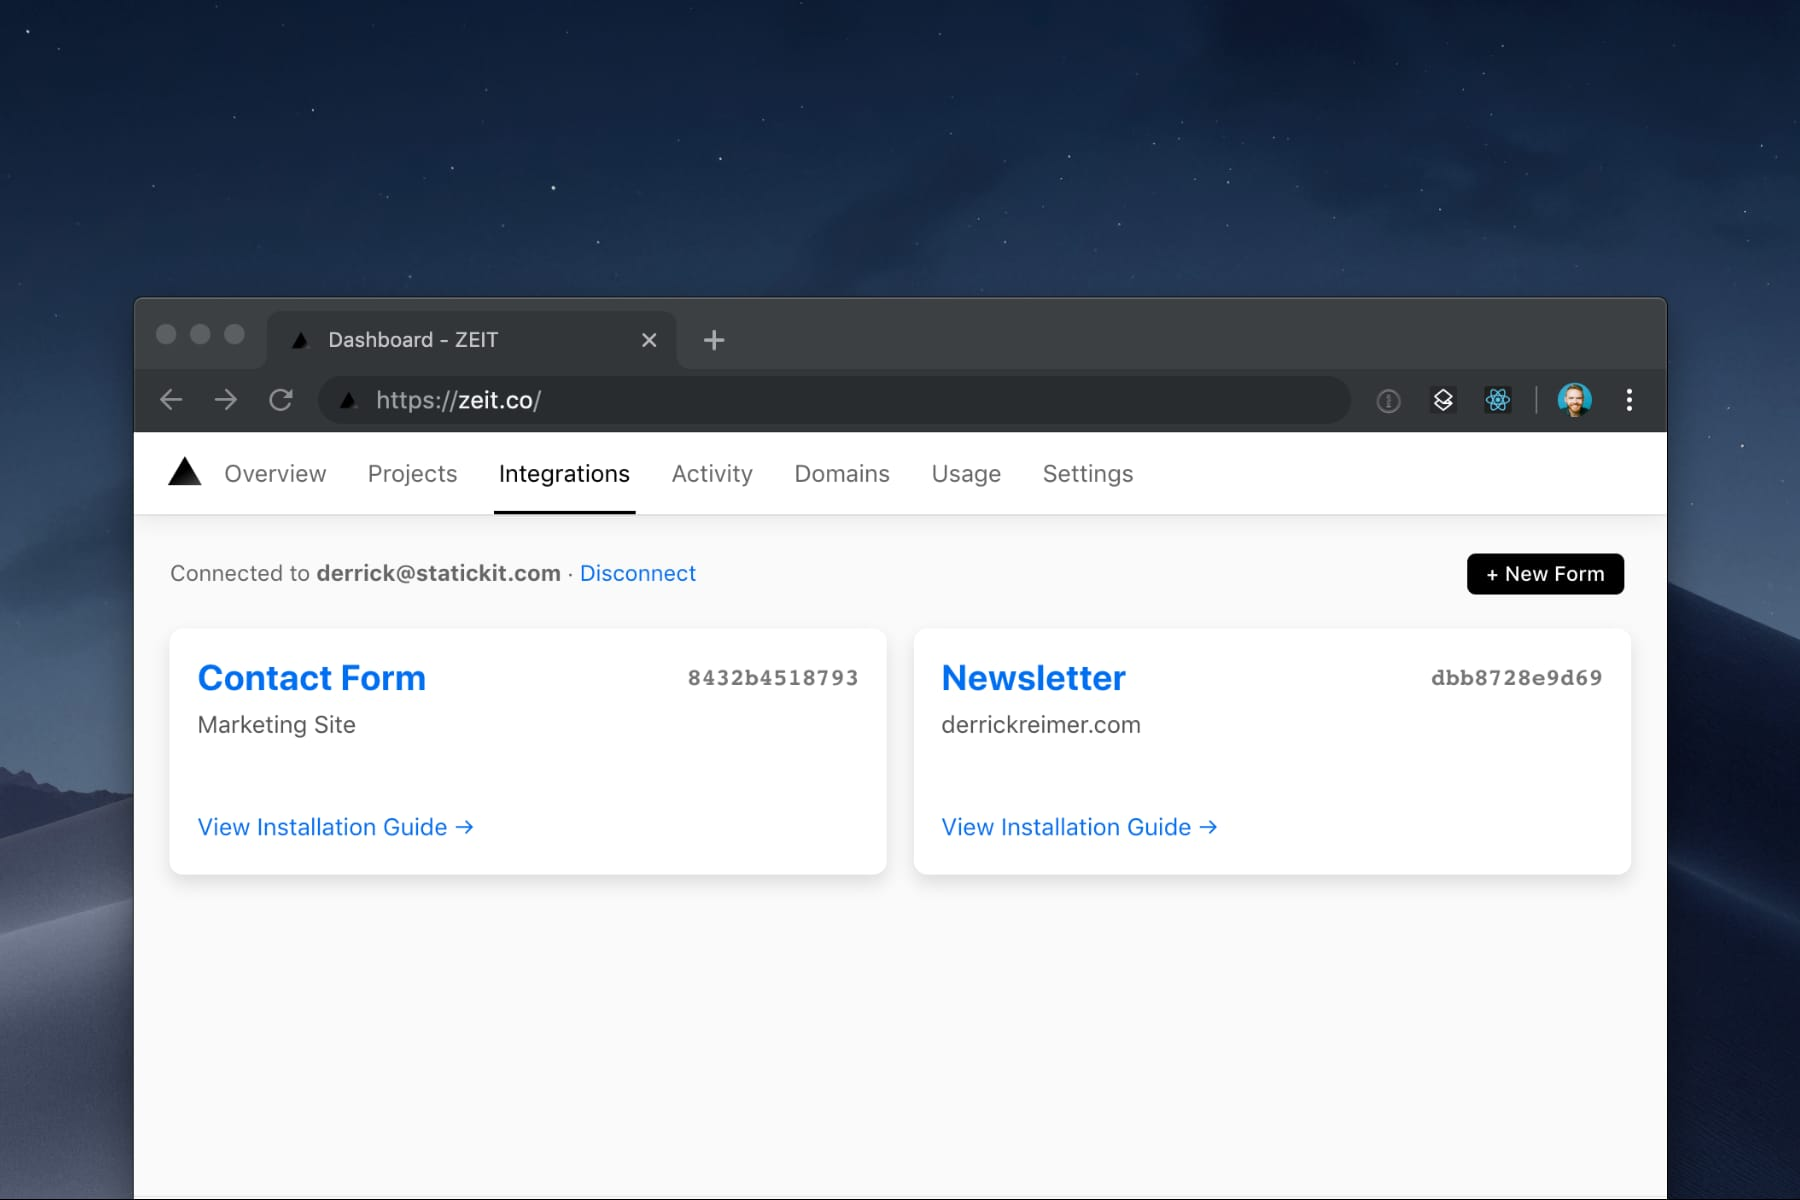
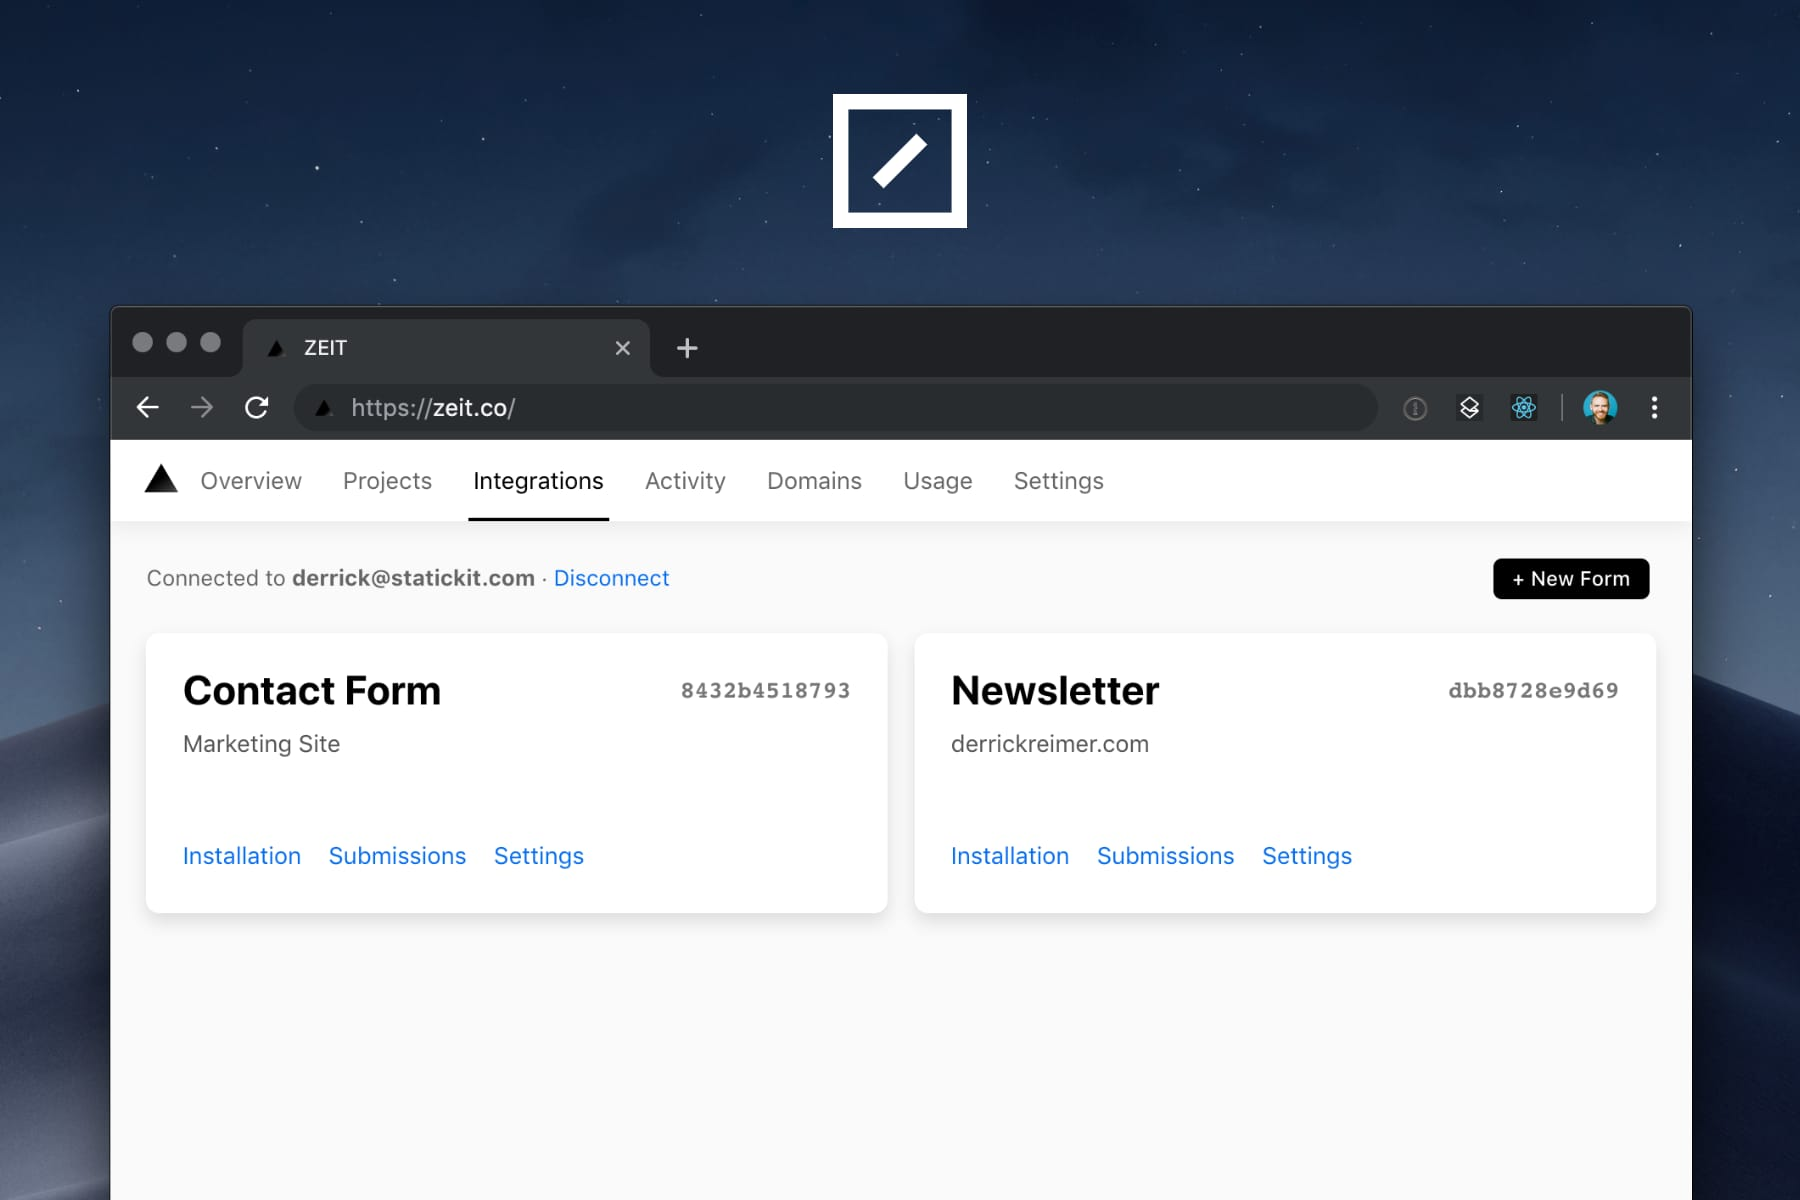
Improve styles a bit

diff --git a/pages/forms.js b/pages/forms.js
@@ -4,26 +4,34 @@ const Header = require("../components/header");
 const { STATICKIT_URL } = process.env;
 
 const FormItem = ({ form }) => {
-  const href = `${STATICKIT_URL}/sites/${form.site.id}/forms/${form.id}`;
+  const installationUrl = `${STATICKIT_URL}/sites/${form.site.id}/forms/${form.id}`;
+  const submissionsUrl = `${STATICKIT_URL}/sites/${form.site.id}/forms/${form.id}/submissions`;
+  const settingsUrl = `${STATICKIT_URL}/sites/${form.site.id}/forms/${form.id}/edit`;
 
   return htm`
     <Box marginBottom="16px" padding="0 8px" width="50%">
-      <Box padding="16px" borderRadius="8px" backgroundColor="white" boxShadow="rgba(0, 0, 0, 0.12) 0px 5px 10px">
-        <Box display="flex" paddingBottom="4px" fontWeight="bold">
-          <Box flexGrow="1" fontSize="21px">
-            <Link href=${href} target="_blank">${form.name}</Link>
-          </Box>
+      <Box padding="21.3333px" borderRadius="8px" backgroundColor="white" boxShadow="rgba(0, 0, 0, 0.12) 0px 5px 10px">
+        <Box display="flex" paddingBottom="8px" fontWeight="bold">
+          <Box flexGrow="1" fontSize="24px">${form.name}</Box>
           <Box color="#777" fontFamily="monospace" fontSize="14px">
             ${form.id}
           </Box>
         </Box>
 
-        <Box paddingBottom="36px" color="#555" fontSize="14px">
+        <Box paddingBottom="42px" color="#555" fontSize="14px">
           ${form.site.name}
         </Box>
 
-        <Box color="#777">
-          <Link href=${href} target="_blank">View Installation Guide →</Link>
+        <Box display="flex">
+          <Box marginRight="16px">
+            <Link href=${installationUrl} target="_blank">Installation</Link>
+          </Box>
+          <Box marginRight="16px">
+            <Link href=${submissionsUrl} target="_blank">Submissions</Link>
+          </Box>
+          <Box marginRight="16px">
+            <Link href=${settingsUrl} target="_blank">Settings</Link>
+          </Box>
         </Box>
       </Box>
     </Box>

diff --git a/pages/new_form.js b/pages/new_form.js
@@ -23,7 +23,7 @@ module.exports = ({ pageData, errors }) => {
 
       <Fieldset>
         <FsContent>
-          <H2>Create a form</H2>
+          <H1>Create a form</H1>
           <P>Just give your form a name and you'll be on your way!</P>
 
           <Box margin="16px 0">
